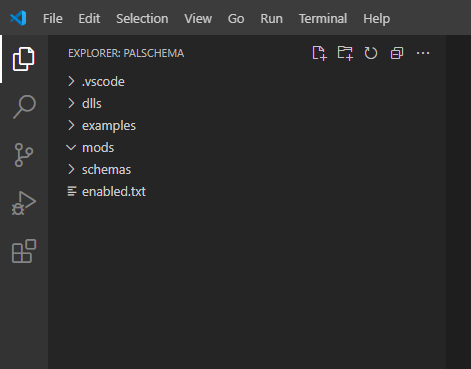
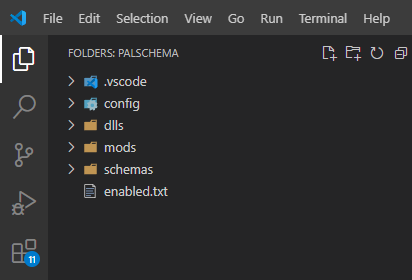
docs: Update Getting Started page

diff --git a/website/docs/gettingstarted.md b/website/docs/gettingstarted.md
@@ -1,7 +1,3 @@
----
-sidebar_position: 5
----
-
 # Getting Started
 
 ## Essentials
@@ -12,17 +8,39 @@ NOTE: Make sure to check `Add "Open with Code"` for both checkboxes as seen in t
 
 ![Visual Studio Code necessary checkboxes](assets/vscode_install.png)
 
-* [UE4SS Palworld](https://github.com/Okaetsu/RE-UE4SS/releases/tag/experimental-palworld) - You'll want to get the linked version rather than the latest one because Palworld did some engine modifications which now requires a `MemberVariableLayout.ini` with UE4SS. If you don't get the linked version you will experience crashes with certain mods and PalSchema is one of them. See issue [here](https://github.com/UE4SS-RE/RE-UE4SS/issues/802). UE4SS is required as PalSchema relies on it.
+* [UE4SS Palworld](https://github.com/Okaetsu/RE-UE4SS/releases/tag/experimental-palworld) - You'll want to get the linked version for two reasons: 
+  1. Palworld did some engine modifications which now requires a `MemberVariableLayout.ini` with UE4SS. If you don't get the linked version you will experience crashes with certain mods and PalSchema is one of them. See issue [here](https://github.com/UE4SS-RE/RE-UE4SS/issues/802).
+  2. PalSchema is specifically built on the linked version of UE4SS. If you get the latest experimental that isn't the linked version, PalSchema will simply not work due to potential API incompatibility.
 
 * [FModel](https://fmodel.app/) - Very useful for exploring Palworld files in general, you'll want this for referencing different data tables and assets in the game. Setup guide for FModel can be found [here](https://pwmodding.wiki/docs/developers/useful-tools/fmodel).
 
-* [PalSchema](https://github.com/Okaetsu/PalSchema/releases) - You'll obviously need PalSchema itself. Make sure you get the PalSchema_x.x.x_Dev-beta version where x.x.x is the latest version available.
+* [PalSchema](https://github.com/Okaetsu/PalSchema/releases) - You'll obviously need PalSchema itself. Select the latest available release and get the `PalSchema_x.x.x_Dev.zip` at the bottom under **Assets** where x.x.x is the latest version available.
 
 Installation guide for PalSchema can be found in [here](./installation.mdx).
 
 ## Setting Up
 
-Now that you've got everything installed, head over to the Mods folder where you installed PalSchema and right click on the PalSchema folder.
+Now that you've got everything installed, we want to setup a few things to make using PalSchema a bit easier.
+
+### Generating Schema Files
+
+1. Navigate to the `ue4ss` folder where you installed UE4SS and open up `UE4SS-settings.ini`.
+
+2. Scroll down to the `[Debug]` section and set both `GuiConsoleEnabled` and `GuiConsoleVisible` to 1. UE4SS GUI Console is only recommended to be enabled during development due to performance impact so make sure to disable it when you're playing the game normally and not developing mods.
+
+3. Launch Palworld and the UE4SS Debugging Tools window should appear.
+
+4. Navigate to the Pal Schema tab and click on `Generate JSON Schema Files`. This will take a moment and you'll see a progress bar which will disappear once it's done generating the schema files.
+
+![Showcasing Generate JSON Schema Files button in the UE4SS Debugging Tools](./assets/gui_console_palschema_tab.png)
+
+:::warning
+If you have graphical issues in the GUI Console, try changing `GraphicsAPI` from `opengl` to `dx11` or vice-versa.
+:::
+
+### The Mods Folder
+
+Next, head over to the Mods folder where you installed PalSchema and right click on the PalSchema folder.
 
 You should see an `Open with Code` option as seen in the image below.
 
@@ -32,119 +50,195 @@ VSCode (Visual Studio Code) will now be open in a new window and you should see 
 
 ![What the folder structure should look like when Visual Studio Code is open](assets/vscode_project_structure.png)
 
-## Explanation of Different Folders
+* .vscode - This tells VSCode where to look for the schema files and which mods to apply each schema to, don't touch this.
 
-You'll notice there's a dlls, examples, mods and schemas folder.
+* config - This is the [configuration](./configuration.md) file where you can enable/disable and modify certain features of PalSchema.
 
 * dlls - This is where the main file for PalSchema resides and is the one handling loading of PalSchema mods, leave it be.
 
-* examples - I've included an example mod inside this folder that you can just drag into the mods folder and experiment with.
+* examples - This contains example mods with comments that you can just drag into the mods folder and experiment with.
 
-* mods - This is where you'll want to put your mod files.
+* mods - This is where you'll want to put your PalSchema mods.
 
 * schemas - This is where VSCode will come in handy as it can read from the schema files inside to make sure our .json files are properly structured. Do not touch the files inside this folder.
 
-If we take a look inside the examples folder, we'll see the following folders inside ExampleMod:
-
-* appearance - This is where character creation related mods go like hair styles, eyes, head types, colors, etc...
-
-* items - This is where item related mods go.
-
-* pals - Pal related mods go here.
-
-* raw - This is for table mods that aren't categorized so you can modify any tables here, will explain at the end of the list.
-
-* skins - Pal skins and any other future skin types like buildings, weapons, etc.
-
-* translations - This is where translations for anything in the game goes and you can specify which language the translation is for by naming the folder after any of the localizations listed in the L10N folder of Palworld or you can also do custom localization. Palworld natively supports de, en, es, fr, it, ko, pt-BR, ru, zh-Hans, zh-Hant and you can easily add support for other unsupported languages with custom localization mods.
-
-Any mod that isn't a raw data table mod has some convenience logic behind them to make it so that you can edit multiple data tables without having to reference those other tables. You also get some neat autocompletion, detailed descriptions of each field and error checking.
-
 ## Creating a Mod
 
-Now that we have all of that covered, let's get started. We'll start by creating an entirely new item based on an existing item in the game.
+Now that we have all of that covered, let's get started. We'll start by editing an existing data table in the game.
 
-1. You'll want to right-click on the mods folder in VSCode, select `New Folder...` and name it `MyFirstMod`. You can also create the folders and files outside VSCode if it's easier.
+### Folder Structure
 
-2. Inside MyFirstMod create an `items` folder.
+1. Right-click on the `mods` folder in VSCode, select `New Folder...` and name it `MyFirstMod`. The folder we just created is the name of our mod which will show up as `MyFirstMod`.
 
-3. Now create a `my_item.json` file inside `items` folder. You can call it anything as long as it ends with .json
+![](./assets/creating_a_mod_newfolder.png)
 
-![Picture of an opened my_item.json file](assets/my_item.png)
+2. Next, right-click on `MyFirstMod`, select `New Folder...` again and this time name it `raw`. We must call this folder `raw` since PalSchema applies different logic based on the subfolder's name. We will go through every subfolder name and their purpose at the end of this tutorial.
 
-4. Next, we'll define our item inside `my_item.json`. write the following or copy-paste:
+3. Once more, right-click on the `raw` folder, but this time you want to select `New File...`. We'll name it `mymod.json`, but you can call it anything as long as it ends with `.json` as this is the file extension required by PalSchema. [`.jsonc`](https://jsonc.org/) is also supported if you want to include comments in your file.
+
+4. Your folder structure should now look like the image below.
+
+![Image of the folder structure in vscode showing MyFirstMod and raw folders with mymod.json in the raw folder](./assets/creating_a_mod_folderstructure.png)
+
+### Introduction to JSON
+
+Before we get into writing our mod, we'll want to go through some JSON basics. Note that this isn't meant to be a comprehensive tutorial to JSON and there are better resources for that on the internet if you google for it.
+
+JSON stands for **JavaScript Object Notation** which is meant for expressing structured data and is used for a variety of things with PalSchema being one of those!
+
+A JSON file will generally look like the below example:
 
 ```json
 {
-    "MOD_Raspberry": {
-        "Name": "Raspberry",
-        "Description": "It's very tasty.",
-        "Type": "Consumable",
-        "IconTexture": "/Game/Others/InventoryItemIcon/Texture/T_itemicon_Food_Berries.T_itemicon_Food_Berries",
-        "TypeA": "Food",
-        "TypeB": "FoodDishVegetable",
-        "Rank": 1,
-        "Rarity": 1,
-        "Price": 9999,
-        "MaxStackCount": 9999,
-        "Weight": 0.2,
-        "VisualBlueprintClassSoft": "/Game/Pal/Blueprint/Item/VisualModel/BP_Item_BerryRed.BP_Item_BerryRed_C",
-        "RestoreSatiety": 125,
-        "RestoreHP": 25,
-        "CorruptionFactor": 1.0,
-        "Recipe": {
-            "Product_Count": 1,
-            "WorkAmount": 10.0,
-            "Material1_Count": 1,
-            "Material1_Id": "Stone"
-        }
-    }
+  "person": {
+    "name": "Carl",
+    "age": 30,
+    "hasPets": true
+  }
 }
 ```
 
-I'll explain the above structure:
+`{}` curly brackets indicate an object which contains key/value pairs where the key is always a string while the value can be different things. In this case `person` is the key and the content within the following `{}` is the value (`{
+    "name": "Carl",
+    "age": 30,
+    "hasPets": true
+  }`).
 
-- `MOD_Raspberry` will be the internal code for our item that the game will use to identify which item we're referring to. You can make this anything, but you might be wondering why the MOD_ prefix? This is not required, but is good practice to avoid potential conflicts with future game updates as we can never know if they add an official item with the code `Raspberry` into the game. Do note that if this is set to an existing item id, it will modify that item instead rather than adding a new one. This can be particularly useful if you want to adjust the weight of existing items for example or anything else.
+`name` is a string as indicated by the quotes `""` around the value `Carl`.
 
-- Name is a field provided by PalSchema and provides a global translation for all languages. For specifying a localized name for a specific language, look into creating a translations language mod.
+`age` is a number
 
-- Description is a field provided by PalSchema and provides a global translation for all languages. For specifying a localized description for a specific language, look into creating a translations language mod.
+`hasPets` is a boolean which can be either `true` or `false`
 
-- Type is self explanatory and determines the logic for this item. Valid values are Weapon, Armor, Consumable and Generic with Generic having no special logic. Generic items are typically things like Materials (Stone, Wood, etc).
+You'll notice the first opening and closing pair of `{}` don't have a key associated and that's because their only purpose is to serve as a container for the JSON file. You'll always want to start your JSON file with either `{}` or `[]`.
 
-- TypeA and TypeB are used for determining what station the item can be crafted at.
+There's also `[]` square brackets which indicates a list of multiple values, for example:
 
-- Rank is the tier of the station that's required to craft it. 1 being all of them.
+```json
+{
+  "people": [
+    {
+      "name": "Carl",
+      "age": 30,
+      "hasPets": true
+    },
+    {
+      "name": "Steve",
+      "age": 32,
+      "hasPets": false
+    }
+  ]
+}
+```
 
-- Rarity defines the icon background color and text color for the item.
-  - 0 = Common
-  - 1 = Uncommon
-  - 2 = Rare
-  - 3 = Epic
-  - 4 = Legendary
+`people` contains a list of objects, but you can also use the square brackets with other values like numbers `[1, 2, 3, 4]` depending on what data is expected.
 
-- Price requires some manual calculation as it doesn't reflect the final value. You can get the final price by dividing the price by 10, so in our case 9999 / 10 = 999 gold in-game.
+```json
+{
+  "numbers": [1, 2, 3, 4]
+}
+```
 
-- MaxStackCount is self explanatory. Just don't go over 9999 due to duplication issue present in the Vanilla game.
+JSON supports six data types which are the following:
 
-- RestoreSatiety controls the amount of hunger replenished.
+* String - "Hello World"
+* Number and Integer - 13.37 and 128
+* Boolean - true/false
+* Null - Used to express emptiness
+* Object - Container for key/value pairs
+* Array - List of values
 
-- RestoreHP is most likely health recovery gained from eating the item?
+### Editing a Data Table
 
-- CorruptionFactor controls how quickly the food spoils. 1.0 is default, lower values make the item spoil slower while higher values make it spoil faster. Fun fact: You can use this for any item, not just consumables.
+Let's start writing our mod now that we have the basics down.
 
-- Recipe is something that doesn't normally exist within the table row and is something provided by PalSchema for convenience. This field automatically adds to the item recipe table. Product_Count is how many items are produced, WorkAmount is how long it should take to craft, Material_Count and Material_Id are the required materials and their count. Can go from 1 to 4. We've set the Raspberry to be craftable at any cooking station for 1 Stone.
+1. Click on the `mymod.json` file which will open it in the editor.
 
-Any fields not covered, you can just hover over it and you'll get a detailed description of what it is for. VisualBlueprintClassSoft as an example:
+2. Start by writing `{}` as covered in previous section. Your text cursor should be automatically placed in the middle of those curly brackets in which case press `Enter` to create some space so it looks like this:
 
-![VisualBlueprintClassSoft Tooltip](assets/visual_blueprint_class_soft.png)
+```json title="mymod.json"
+{
 
-Here's an example of suggestions as well:
+}
+```
 
-![Schema Suggestions](assets/schema_suggestions.png)
+3. Next we want to create an object with a key of `DT_PalMonsterParameter` which will be the name of the data table we're targeting. There are 400+ data tables in the game to choose from, but for this tutorial we'll use `DT_PalMonsterParameter` which in FModel is located in `Pal/Content/Pal/DataTable/Character/DT_PalMonsterParameter` if you want to use it as a reference.
 
-5. Done, That's everything! If you're used to having to package the mod into a .pak file, that step is completely removed with PalSchema as it loads the .json file directly when you launch the game. Let's test the mod in-game!
+```json title="mymod.json"
+{
+  "DT_PalMonsterParameter": {
+      
+  }
+}
+```
 
-![alt text](assets/congratulations.png)
+You might notice that while writing the data table name, it'll show results for other data tables. This is called autocomplete and it's provided by the schema files in the `schemas` folder. 
 
-Success! We've created our first new item in Palworld! Now keep in mind that if you have any modded items in your world and you remove the mod, your world will not be playable anymore.
+You can press either `Enter` or `Tab` while the autocompletion box is open to have VSCode autofill for you.
+
+4. We'll want to create another object where the key this time is the row name in the data table. We'll use `Kitsunebi` which is the internal identifier (ID) for Foxparks, see [Paldeck](https://paldeck.cc/pals) for a comprehensive list of IDs for different things.
+
+
+```json title="mymod.json"
+{
+  "DT_PalMonsterParameter": {
+    "Kitsunebi": {
+      
+    }
+  }
+}
+```
+
+Let's modify the properties of `Kitsunebi` (Foxparks) and give it a bit of a buff.
+
+5. Inside the `Kitsunebi` row object, start writing `WorkSuitability_EmitFlame` which is Kindling and it should show up a bunch of suggestions. Hit `Tab` or `Enter` to autocomplete on `WorkSuitability_EmitFlame` and it should fill in `WorkSuitability_EmitFlame: 0`, we'll set the value to 3.
+
+```json title="mymod.json"
+{
+  "DT_PalMonsterParameter": {
+    "Kitsunebi": {
+      "WorkSuitability_EmitFlame": 3
+    }
+  }
+}
+```
+
+:::tip
+PalSchema will only modify properties and rows that we target in our `.json` files which means every other value will be left as is. This is ideal to prevent conflicts with other mods that can happen with other methods of editing the game's asset files due to those methods overwriting the entire asset rather than only the targeted values.
+:::
+
+## End Result
+
+Launch the game, load up into the game and try to find yourself a Foxparks if you don't have one yet. If we look at the Kindling level for Foxparks, we'll see it's at Lv. 3 now!
+
+![](./assets/foxparks_kindling_lv3.png)
+
+Congrats, you've made your first PalSchema mod! You should now be equipped with the knowledge to start modifying some data tables or even add new data!
+
+I recommend checking the **Guides** section in the docs as well since there's a lot of things you can do with PalSchema like adding new items, buildings or even pal variants if that's something you're interested in.
+
+## Final Notes
+
+I promised earlier to cover the different folder types aside from `raw` and this is very important to understand and remember.
+
+* `appearance` - This is where character creation related mods go like hair styles, eyes, head types, colors, etc...
+
+* `blueprints` - Blueprint edit asset mods go in here. [Intro to Blueprint Editing](./guides/blueprints/intro.md).
+
+* `buildings` - [Building related](./guides/buildings/craftingstation.md) mods go here.
+
+* `enums` - This is where you can [add new enums](./guides/enums/newenums.md).
+
+* `helpguide` - Survival Guide related mods go here. [Working with Survival Guide](./guides/helpguide/intro.md).
+
+* `items` - [Item related](./guides/items/creatingabow.md) mods go here.
+
+* `pals` - Pal related mods go here.
+
+* `raw` - This is for any data table mods and as the name implies, it has no hand holding safety logic in PalSchema like the other mod types.
+
+* `skins` - Pal skins and any other future skin types like buildings, weapons, etc.
+
+* `spawns` - Custom spawners for pals and npcs go in here. [Custom Spawners](./guides/spawners/overview.md).
+
+* `translations` - This is where translations for anything in the game goes and you can specify which language the translation is for by naming the folder after any of the localizations listed in the L10N folder of Palworld or you can also do custom localization. Palworld natively supports de, en, es, fr, it, ko, pt-BR, ru, zh-Hans, zh-Hant and you can easily add support for other unsupported languages with custom localization mods. [Intro to Translations](./guides/translations/intro.md).